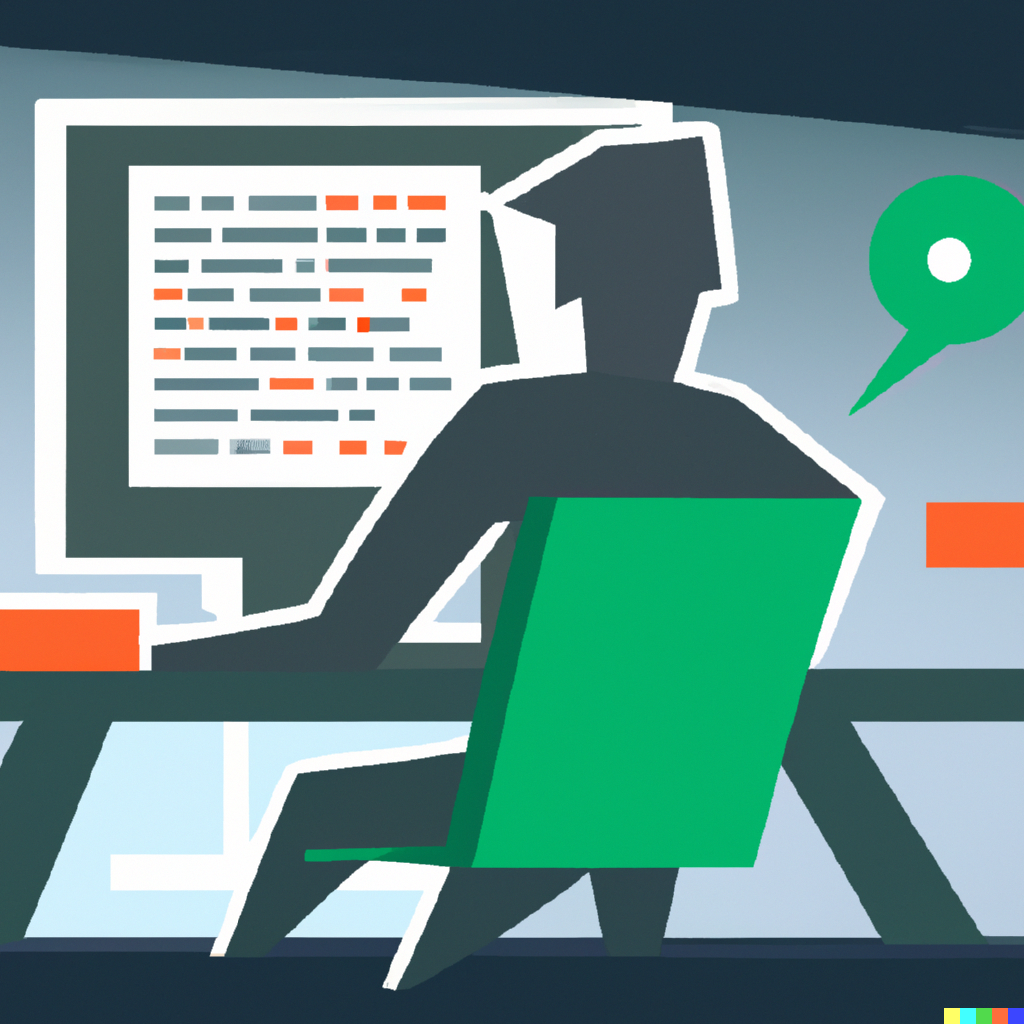
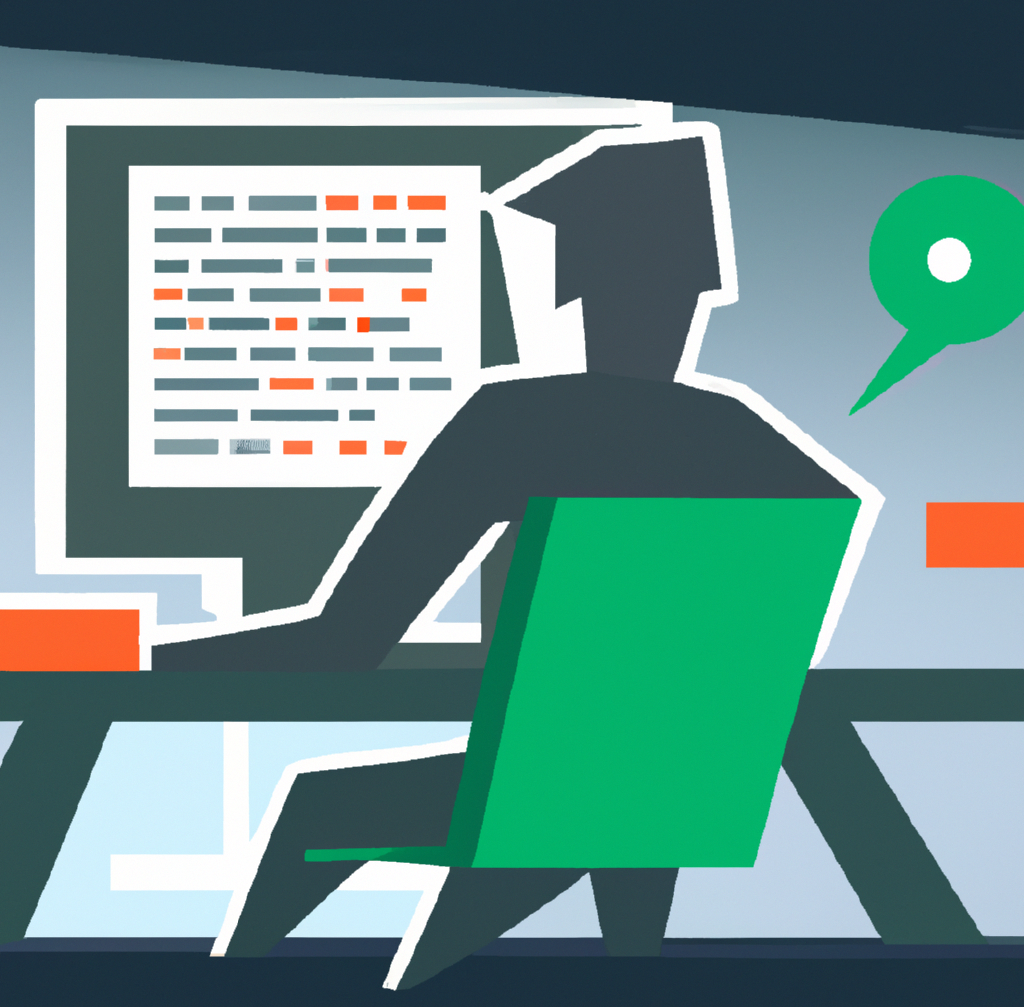
Added image to readme

diff --git a/README.md b/README.md
@@ -1,5 +1,5 @@
 Exploring Cornwall, ON Weather
 
-<center><img src='image/img.png'/><center/>
+<center><img src='image/img.png' width='100'/><center/>
 
 In this small exploration I wanted to see what were the lowest temperatures in Cornwall, Ontario when I lived there from 2011 to 2016 and practice with pandas, numpy, and matplotlib. The data was downloaded from https://cornwall.weatherstats.ca/download.html, which state: "The historical weather data, forecast and current conditions graphics are courtesy of Environment and Climate Change Canada (http://weather.gc.ca/). The information presented is combined from multiple Environment and Climate Change Canada data sources and all effort is made to be accurate."
